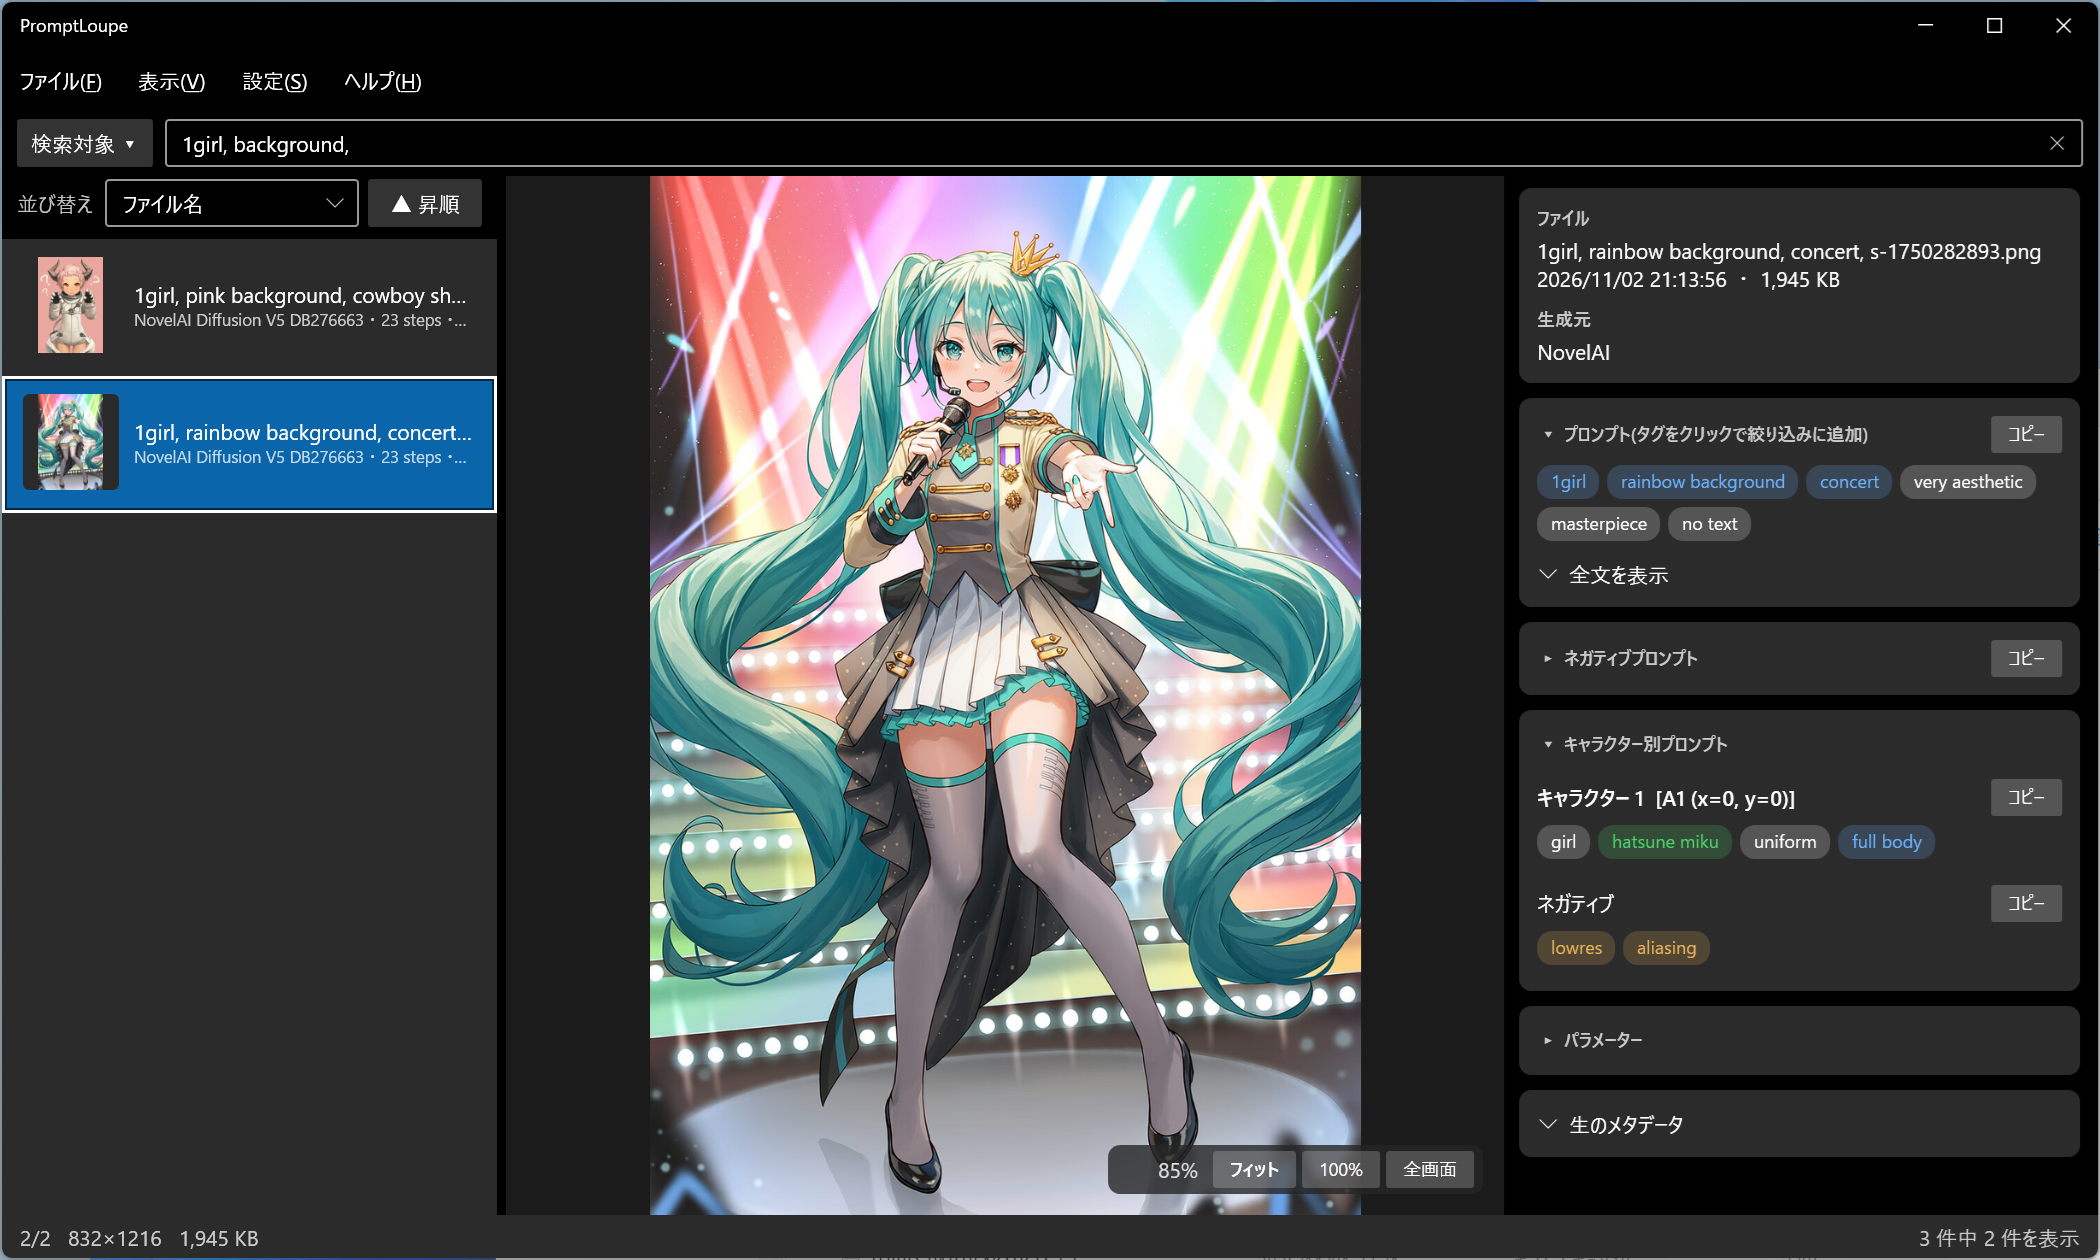
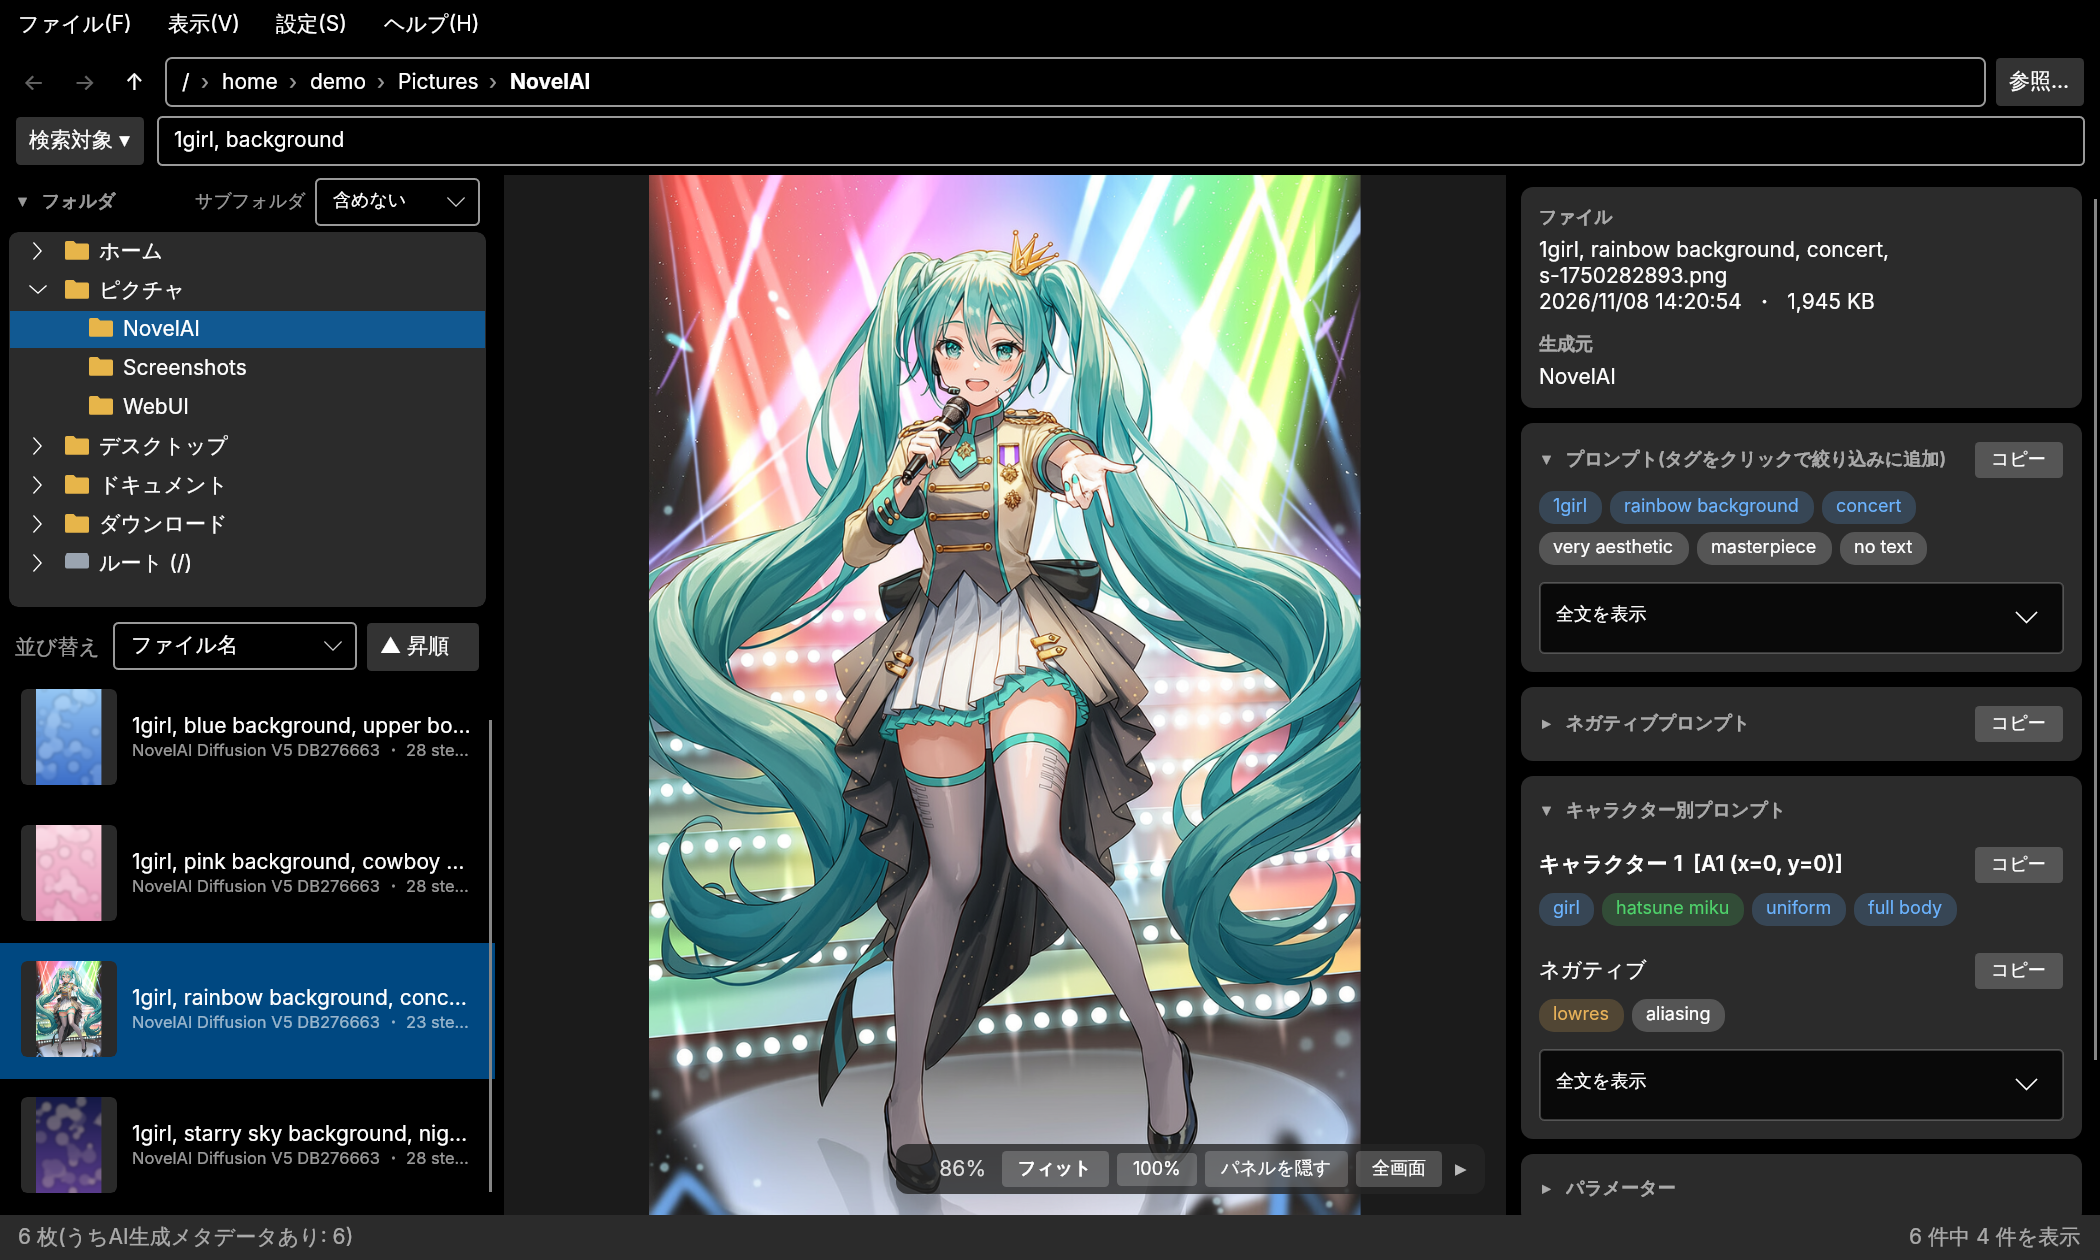
README の画面写真を 2.1.0 の画面に差し替える
- docs/images/main.png を Avalonia 版(2.1.0)の画面に差し替え(フォルダの一覧・パスの欄を含む)
- 撮影用にアップロードされた元画像を削除
- README の代替テキストと CLAUDE.md の記述を更新

Claude-Session: https://claude.ai/code/session_019vPb2BPrR9QGS84ziDha1b

diff --git a/CLAUDE.md b/CLAUDE.md
@@ -85,7 +85,7 @@ C# / Avalonia 11.3 / .NET 10。バージョンは `PromptLoupe/PromptLoupe.cspro
 
 - 2.1.0 を 2026-11-08 に公開した(ユーザーがタグを push して公開。4 つの配布物とも Releases に載った)。
 - 1.7.0(WPF 版の最後)を 2026-11-05 にリリースした(ユーザーが公開)。2.0.0(Avalonia 版。Windows・Mac・Linux)を 2026-11-08 にリリースした(ユーザーが公開)。release.yml の 5 つのジョブ(下書き・Windows・Mac 2 種・Linux)は初回で成功した。
-- README の画面写真(`docs/images/main.png`)は WPF 版のまま(ユーザーの判断で差し替えない。2026-11-08)。
+- README の画面写真(`docs/images/main.png`)は 2.1.0 の Avalonia 版で撮り直した(2026-11-08。ユーザーの希望)。クラウドの Xvfb の上で、`AVALONIA_GLOBAL_SCALE_FACTOR=1.5`、1400×840 のウィンドウを `import -window root` で撮影(2100×1260。ウィンドウマネージャーがないのでタイトルバーはない)。中央の画像はユーザーの NovelAI の画像(メタデータ付き。リポジトリには残していない)、ほかは Pillow で作った仮の絵に NovelAI・A1111 形式のメタデータを付けたもの。パスが出るので、仮のホーム `/home/demo/Pictures/NovelAI` に置いた。設定は `XDG_CONFIG_HOME` で分け、ダークテーマ・数語だけのタグ辞書を使った。撮影用のプログラムはリポジトリに入れていない
 - Mac・Linux の利用者からのフィードバック(Issues)を待つ。
 
 1. 経緯(Avalonia 版への移行。2026-11-04〜11-08): (2026-11-04 に第1段階: 一覧・サムネイル・絞り込み・並び替え・画像表示とズーム・メタデータのカード・タグの色分けと辞書・タグの集計・名前の変更・ごみ箱への削除・全画面・テーマ・設定)。Linux ではスクリーンショットで確認済み。Windows でもユーザーが確認し「全体的に問題ない」(2026-11-05。`dotnet run` のデバッグ版で)。確認用の JPEG・WebP(Orientation 1〜8 の JPEG・WebP、A1111 の UserComment の JPEG、カメラの Exif と GPS で Orientation 6 の JPEG、計 18 枚。Pillow で作成、リポジトリには入れていない)も問題なし。ただし「動作がちょっと重い気がした」(5,600 枚、830×1210 程度のフォルダ)。ユーザーが様子を見ている。読み込み自体は速い(1792×2304 の PNG で表示用 約 90ms、サムネイル 約 75ms。Linux・Release で計測)。重いと感じた操作が分かったら調べる。第2段階(2026-11-05): 一覧からのドラッグ持ち出し(Windows・Mac。Linux は Avalonia が未対応)、ファイルのコピー・切り取り・貼り付け、画像のコピー、プロパティ(Windows のみ)、使い方の画面(`Help.txt`)。Linux の Headless で、コピー・切り取り・貼り付け(同じ名前は「名前 (2)」、移動のあとはクリップボードを空にする)、画像のコピー、使い方の画面(スクリーンショット)、プロパティがメニューに出ないことを確認した。Windows でもユーザーが確認し「問題なし」(2026-11-05): 使い方(F1・Esc・テーマ)、右クリックメニュー、プロパティ(Alt+Enter)、画像のコピー(アプリを閉じたあとも貼り付けられる)、右パネルの文字の Ctrl+C、エクスプローラーとのコピー・切り取り・貼り付け(「名前 (2)」を含む)、ドラッグ持ち出し(Shift で移動、複数選択の1枚をつかむ、自分のウィンドウへのドロップを無視)。確認中に「上位と下位の同じ名前のファイルが片方しか出ない」ように見えたが、貼り付けで増えたファイルが一覧に加わっていなかっただけだった(新しく増えた画像は加えない仕様。不具合ではない)。Linux・Mac の OS のクリップボード・ファイルマネージャーとの連携は未確認。第3段階(2026-11-05): ライセンス表記(`PromptLoupe.Avalonia/THIRD-PARTY-NOTICES.txt`。使い方・バージョン情報・README も直した)、Avalonia 版の `<Version>` を WPF 版に合わせて 1.7.0 に、CI(build.yml)で配布と同じ形(自己完結型・単一ファイル、約 47MB)に発行して Actions の Artifacts に置く(win-x64・linux-x64、14 日。Releases には出さない)。Linux の単一ファイル版は、Xvfb の上で起動して画面が出ることを確認した。Windows の単一ファイル版(CI の Artifacts)も、ユーザーが起動・画像の表示・THIRD-PARTY-NOTICES.txt の同梱を確認した(2026-11-06)。第4段階(2026-11-06): HEIC・HEIF・TIFF の表示(Magick.NET)、Mac 版の .app と CI(build.yml の Artifacts、release.yml で下書きに追加)。ARM 版の Windows 向け(win-arm64)は作らない(2026-11-07、ユーザーが決定。Windows 11 の ARM 版は x64 版をエミュレーションで動かせる。win-arm64 の発行は WPF 版・Avalonia 版ともクラウドで通ることを確認済みで、Avalonia・SkiaSharp・Magick.NET とも win-arm64 の部品がある)。確認用の TIFF 10 枚と HEIC 3 枚(Pillow で作成。画像の中に正しい見え方を書いた)を zip でユーザーに渡した(リポジトリには入れていない)。Windows での HEIC(回転入りの C008 を含む)・TIFF(確認用 10 枚)の表示も、ユーザーが「問題なし」(2026-11-07)。先読みのあと、ユーザーは「だいぶ改善されたが、WPF 版よりまだ時間がかかる気がする」(2026-11-07)。原因の切り分けのため、一時的にステータスバーへ展開・待ち・描画の時間(`RequestAnimationFrame` を 2 回待って描画の時間を測った)を出し、F9 で縮小表示の品質(高・中・低)を切り替えられるようにした(確認後に消した)。Linux の Headless では 1792×2304 で展開 約 80ms・描画 約 25ms。Windows での計測(ユーザー): 品質を変えても描画の時間はあまり変わらず、引っかかるときは「待ち」が大きい画像で 150ms(先読みが追いつく前に送ったとき)。そこで、送る向きに 2 枚先読みし、表示用の読み込みのコピーを 1 回減らした(2026-11-07)。Linux の Headless では、大きい画像を 120ms ごとに送っても待ち 0ms。さらに、Magick.NET をやめて、TIFF は LibTiff.NET、HEIC は OS の機能(`HeifLoader`)にし、ライセンス文を exe に埋め込んだ(2026-11-07。配布物は exe だけ)。Windows でユーザーが確認(2026-11-07): HEIC(WIC。C008 の向きを含む)・TIFF の表示、配布物が exe だけになったこと、「だいぶよくなってる」「HEIC の展開も少し改善」。大きい TIFF(6000×4000 で約 0.5 秒)は、全体を展開するしかないので仕方ないとユーザーも納得。調査用の表示は消した。メニュー・キー操作・設定を WPF 版と突き合わせ、機能はそろったと判断(2026-11-07)。残り: release.yml の Mac のジョブ(次のタグで初めて動く)、Linux 版の配布をどうするか、WPF 版をやめる時期。Mac はユーザーの MacBook Pro 2016(Intel、macOS 12 まで)で確認できるが、Mac で使う予定がなければ放置してよい。Mac の配布は署名・公証がないと Gatekeeper に強く止められる。 2026-11-08: ユーザーが普段使いでも「問題なし」。WPF 版のコードを消し、フォルダを `PromptLoupe/` に改名、ソリューションを置き、2.0.0 に上げ、release.yml を Windows・Mac・Linux 向けに書き直し、README・使い方を Avalonia 版に合わせた。

diff --git a/README.md b/README.md
@@ -2,7 +2,7 @@
 
 AI生成画像のメタデータを読み取り、それを元に並び替え・絞り込みしながら閲覧できる画像ビューア(C# / Avalonia / .NET 10。Windows・Mac・Linux)。
 
-![PromptLoupe のメイン画面。左にファイル一覧、中央に画像、右にプロンプトのタグやキャラクター別プロンプトのカード](docs/images/main.png)
+![PromptLoupe のメイン画面。左にフォルダの一覧とファイル一覧、中央に画像、右にプロンプトのタグやキャラクター別プロンプトのカード](docs/images/main.png)
 
 ## ダウンロード
 
